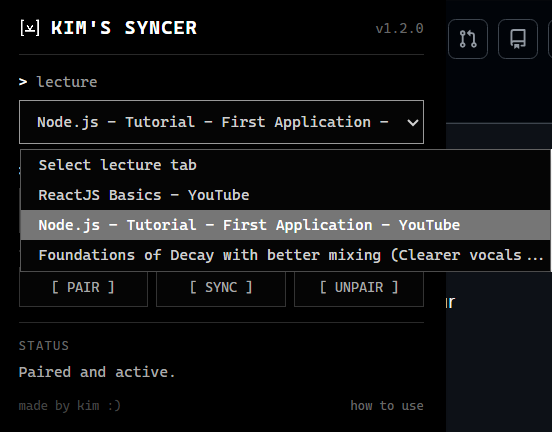
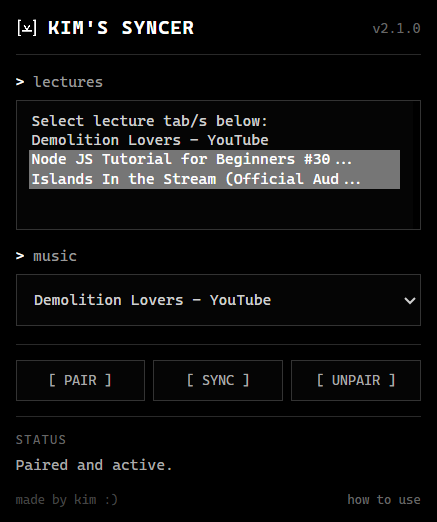
updated screenshots

diff --git a/README.md b/README.md
@@ -9,9 +9,8 @@ Laziness. Kidding. I made this because after I watch a lecture video, I usually 
 # Screenshots
 
 <p float="left">
-  <img src="screenshots/1.png" width="33.33%" />
-  <img src="screenshots/2.png" width="33.33%" /> 
-  <img src="screenshots/3.png" width="33.33%" /> 
+  <img src="screenshots/1.png" width="50.00%" />
+  <img src="screenshots/2.png" width="50.00%" /> 
 </p>
 
 # Installation
